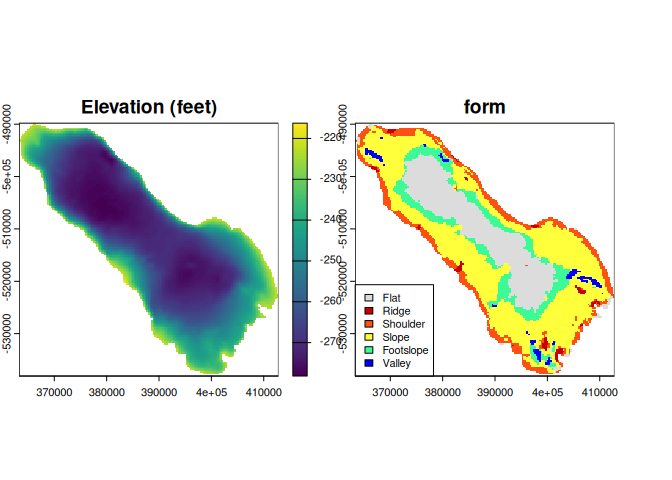
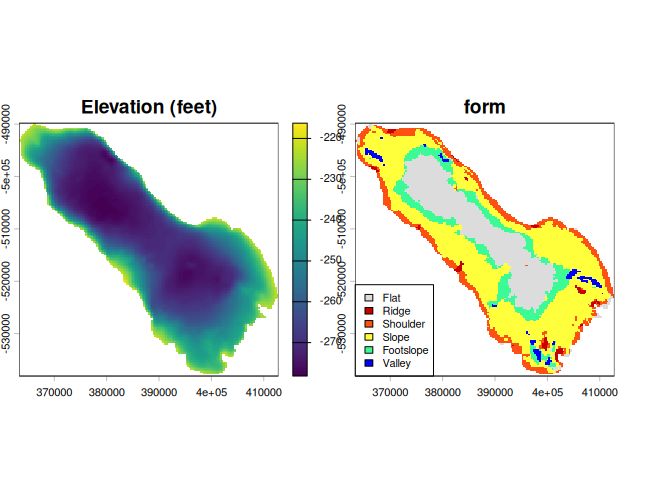
fix: examples  - closes #10

diff --git a/README.md b/README.md
@@ -55,7 +55,7 @@ the Auckland volcanic field of New Zealand.
 
 ``` r
 library(terra)
-#> terra 1.8.86
+#> terra 1.9.11
 library(rgeomorphon)
 
 # PARAMETERS
@@ -63,13 +63,13 @@ SEARCH = 7       # outer search radius (cells)
 SKIP = 0         # inner skip radius (cells)
 FLAT = 1         # flat angle threshold (degrees)
 
-# classic volcano elevation data
+## classic volcano elevation data
 data("volcano", package = "datasets")
 
 # construct and georeference a SpatRaster object
-dem <- terra::rast(volcano)
-terra::crs(dem) <- terra::crs("EPSG:2193")
-terra::ext(dem) <- c(1756968, 1757578, 5917000, 5917870)
+dem <- terra::flip(terra::rast(volcano))
+terra::crs(dem) <- terra::crs("EPSG:27200")
+terra::ext(dem) <- c(2667400, 2668010, 6478700, 6479570)
 names(dem) <- "Elevation (meters)"
 
 # calculate geomorphons "forms"
@@ -82,7 +82,7 @@ system.time({
     )
 })
 #>    user  system elapsed 
-#>   0.066   0.004   0.057
+#>   0.069   0.002   0.055
 
 # inspect result
 plot(c(dem, rg), 
@@ -91,7 +91,7 @@ plot(c(dem, rg),
                 bg = "white"))
 ```
 
-<img src="man/figures/README-volcano-1.png" width="100%" />
+<img src="man/figures/README-volcano-1.png" alt="" width="100%" />
 
 ## Salton Sea Example
 
@@ -129,7 +129,7 @@ system.time({
     )
 })
 #>    user  system elapsed 
-#>   0.105   0.001   0.088
+#>   0.122   0.002   0.094
 
 # inspect result
 plot(c(dem, rg), 
@@ -139,7 +139,7 @@ plot(c(dem, rg),
                 cex = 0.85))
 ```
 
-<img src="man/figures/README-salton-1.png" width="100%" />
+<img src="man/figures/README-salton-1.png" alt="" width="100%" />
 
 # Citation
 
@@ -148,7 +148,7 @@ citation("rgeomorphon")
 #> To cite package 'rgeomorphon' in publications use:
 #> 
 #>   Brown A (2025). _rgeomorphon: A Lightweight Implementation of the
-#>   'Geomorphon' Algorithm_. R package version 0.3.0,
+#>   Geomorphon Algorithm_. R package version 0.3.0,
 #>   <https://github.com/brownag/rgeomorphon/>.
 #> 
 #>   Jasiewicz J, Stepinski T (2013). "Geomorphons - a pattern recognition
